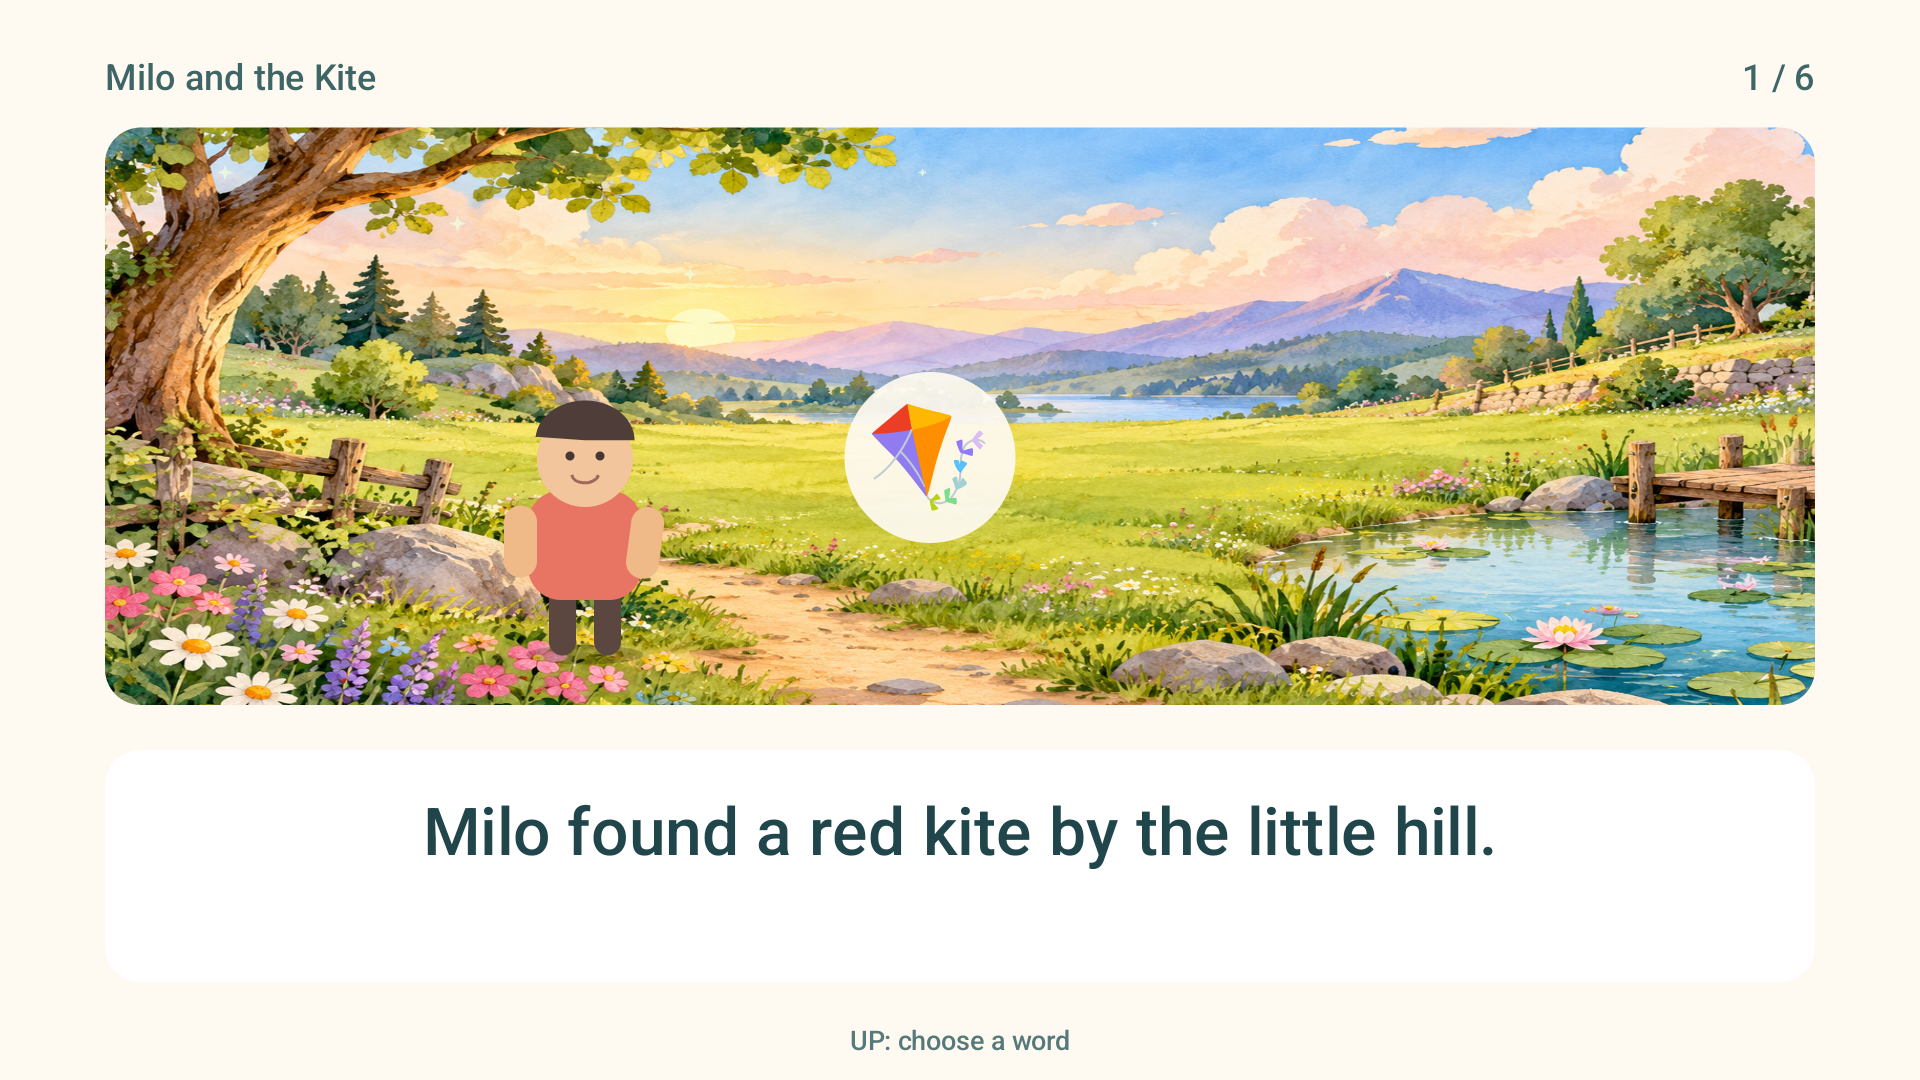
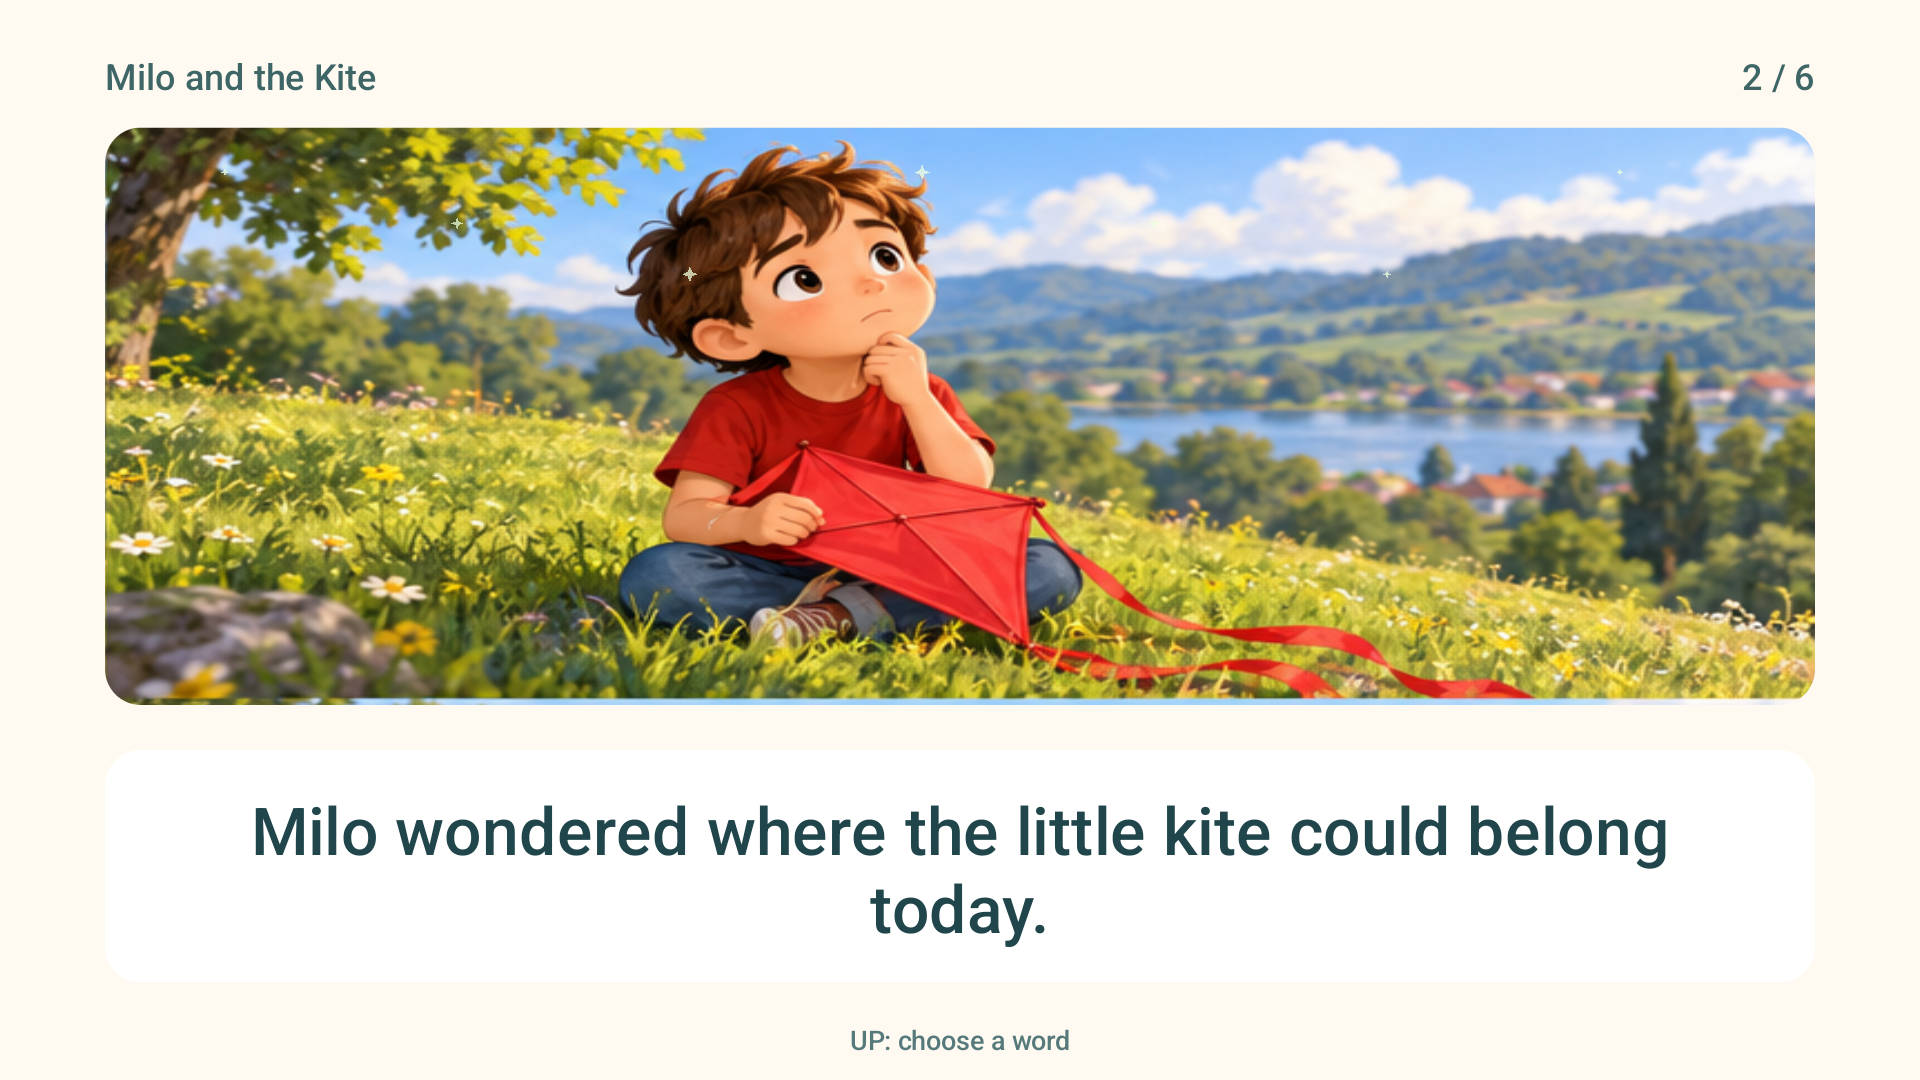
Add illustrated scenes for Milo and the Kite

diff --git a/src/com/example/storytv/ShortStoryActivity.java b/src/com/example/storytv/ShortStoryActivity.java
@@ -1,8 +1,8 @@
 package com.example.storytv;
 import android.app.Activity;import android.os.Bundle;import android.graphics.*;import android.view.*;import org.json.*;import java.io.*;
 public class ShortStoryActivity extends Activity {
- JSONArray pages;String title,object;int page=-1,storyId,finishChoice=0;Bitmap image,places;CoverArt covers;Reader view;ReadingWords reader;
- public void onCreate(Bundle b){super.onCreate(b);getWindow().getDecorView().setSystemUiVisibility(5894);try{InputStream in=getAssets().open("stories.json");ByteArrayOutputStream data=new ByteArrayOutputStream();byte[] buffer=new byte[4096];int n;while((n=in.read(buffer))!=-1)data.write(buffer,0,n);in.close();storyId=getIntent().getIntExtra("story",0);JSONObject story=new JSONArray(data.toString("UTF-8")).getJSONObject(storyId);pages=story.getJSONArray("pages");title=story.getString("title");String[] icons={"🪁","🔔","🐚","☂","🪶","🍂","🏮","🔘","⛵","🎀","🧤","🪨","🔑","🌰","🌸","🔮","🧣","☕","🪨","🔖","💧","🎩","🖌","🥁","🌼","⚽","🎁","🍎","🌼","🚩","🌱","☁","⭐","🎈","🚿","🪙","🖍","🧸","🍊","🚂","🐚","📚","🚗","🌸","🔦","🍃","🦆","🧦","🪣","🥄","✈","⭐","🍱","☂","🦋","🥭","🪁","🌼","⛵","🐶","🌙","🌱","🎈","🐢","🍐","🚗","🐟","📖","🍂","🐈","🌻","🚲","🍌","🐚","🌸","🪶","🍎","🪺"};object=icons[storyId];in=getAssets().open("meadow.png");image=BitmapFactory.decodeStream(in);in.close();in=getAssets().open("places.png");places=BitmapFactory.decodeStream(in);in.close();}catch(Exception e){finish();return;}try{covers=new CoverArt(this);}catch(Exception e){finish();return;}view=new Reader();reader=new ReadingWords(this,view,storyId>=53?new java.util.Locale("ta","IN"):java.util.Locale.US);setContentView(view);}
+ JSONArray pages;String title,object;int page=-1,storyId,finishChoice=0;Bitmap image,places,sceneSheet;CoverArt covers;Reader view;ReadingWords reader;
+ public void onCreate(Bundle b){super.onCreate(b);getWindow().getDecorView().setSystemUiVisibility(5894);try{InputStream in=getAssets().open("stories.json");ByteArrayOutputStream data=new ByteArrayOutputStream();byte[] buffer=new byte[4096];int n;while((n=in.read(buffer))!=-1)data.write(buffer,0,n);in.close();storyId=getIntent().getIntExtra("story",0);JSONObject story=new JSONArray(data.toString("UTF-8")).getJSONObject(storyId);pages=story.getJSONArray("pages");title=story.getString("title");String[] icons={"🪁","🔔","🐚","☂","🪶","🍂","🏮","🔘","⛵","🎀","🧤","🪨","🔑","🌰","🌸","🔮","🧣","☕","🪨","🔖","💧","🎩","🖌","🥁","🌼","⚽","🎁","🍎","🌼","🚩","🌱","☁","⭐","🎈","🚿","🪙","🖍","🧸","🍊","🚂","🐚","📚","🚗","🌸","🔦","🍃","🦆","🧦","🪣","🥄","✈","⭐","🍱","☂","🦋","🥭","🪁","🌼","⛵","🐶","🌙","🌱","🎈","🐢","🍐","🚗","🐟","📖","🍂","🐈","🌻","🚲","🍌","🐚","🌸","🪶","🍎","🪺"};object=icons[storyId];in=getAssets().open("meadow.png");image=BitmapFactory.decodeStream(in);in.close();in=getAssets().open("places.png");places=BitmapFactory.decodeStream(in);in.close();if(storyId==0){in=getAssets().open("milo-scenes.png");sceneSheet=BitmapFactory.decodeStream(in);in.close();}}catch(Exception e){finish();return;}try{covers=new CoverArt(this);}catch(Exception e){finish();return;}view=new Reader();reader=new ReadingWords(this,view,storyId>=53?new java.util.Locale("ta","IN"):java.util.Locale.US);setContentView(view);}
  protected void onPause(){super.onPause();if(reader!=null)reader.stop();} protected void onDestroy(){if(reader!=null)reader.close();super.onDestroy();}
  public boolean onKeyDown(int k,KeyEvent e){if(page==pages.length()){if(k==KeyEvent.KEYCODE_BACK||k==KeyEvent.KEYCODE_DPAD_CENTER||k==KeyEvent.KEYCODE_ENTER){finish();}return true;}if(page>=0&&reader.key(k))return true;if(k==KeyEvent.KEYCODE_DPAD_RIGHT||k==KeyEvent.KEYCODE_MEDIA_NEXT||(page==-1&&(k==KeyEvent.KEYCODE_DPAD_CENTER||k==KeyEvent.KEYCODE_ENTER))){if(page==pages.length()-1){StoryProgress.complete(this,"story:"+title);reader.reset();page=pages.length();finishChoice=0;view.invalidate();return true;}page++;reader.reset();}else if(k==KeyEvent.KEYCODE_DPAD_LEFT||k==KeyEvent.KEYCODE_BACK){if(page<=0){if(page==0){page=-1;view.invalidate();}else finish();return true;}page--;reader.reset();}else return super.onKeyDown(k,e);view.invalidate();return true;}
  class Reader extends View {
@@ -10,12 +10,12 @@ public class ShortStoryActivity extends Activity {
   void dot(Canvas c,float x,float y,float r,int col){p.setColor(col);c.drawCircle(x,y,r,p);}
   void person(Canvas c,float x,float y,int shirt,float bounce){y+=bounce; p.setColor(0x33000000);c.drawOval(x-39,y+95,x+39,y+108,p);p.setColor(0xff5c4740);c.drawRoundRect(x-24,y+52,x-6,y+102,9,9,p);c.drawRoundRect(x+6,y+52,x+24,y+102,9,9,p);p.setColor(shirt);c.drawRoundRect(x-38,y-8,x+38,y+65,22,22,p);p.setColor(0xffefba88);c.drawRoundRect(x-54,y+2,x-32,y+50,11,11,p);c.save();c.rotate(bounce*1.5f,x+35,y+4);c.drawRoundRect(x+32,y+2,x+54,y+50,11,11,p);c.restore();dot(c,x,y-29,32,0xfff2c59d);p.setColor(0xff4e3d39);c.drawArc(x-33,y-68,x+33,y-15,185,175,true,p);dot(c,x-10,y-31,3,0xff463832);dot(c,x+10,y-31,3,0xff463832);p.setStyle(Paint.Style.STROKE);p.setStrokeWidth(2);p.setColor(0xff9e685e);c.drawArc(x-9,y-26,x+9,y-13,10,160,false,p);p.setStyle(Paint.Style.FILL);}
   protected void onDraw(Canvas c){c.save();c.scale(getWidth()/1280f,getHeight()/720f);c.drawColor(0xfffffaf1);if(page==pages.length()){FinishScreen.draw(c,p,storyId>=53);c.restore();if(StoryMotion.enabled())postInvalidateDelayed(100);return;}if(page==-1){p.setTypeface(Typeface.create("sans-serif-medium",0));Path cp=new Path();cp.addRoundRect(330,65,950,485,24,24,Path.Direction.CW);c.save();c.clipPath(cp);covers.draw(c,p,storyId,new RectF(330,65,950,485));c.restore();p.setTextAlign(Paint.Align.CENTER);p.setColor(0xff20464c);p.setTextSize(46);c.drawText(title,640,565,p);p.setTextSize(23);p.setColor(0xff638082);c.drawText("Press OK to start reading",640,620,p);c.restore();return;}p.setTypeface(Typeface.create("sans-serif-medium",0));p.setColor(0xff3f6667);p.setTextSize(24);p.setTextAlign(Paint.Align.LEFT);c.drawText(title,70,60,p);p.setTextAlign(Paint.Align.RIGHT);c.drawText((page+1)+" / "+pages.length(),1210,60,p);p.setTextAlign(Paint.Align.LEFT);
-   Path clip=new Path();clip.addRoundRect(70,85,1210,470,24,24,Path.Direction.CW);c.save();c.clipPath(clip);float shift=(page%3)*14;int[] locations={-1,3,0,3,2,2,-1,3,-1,1,4,-1,3,2,-1,5,3,3,-1,1,3,2,1,1,3,5,1,3,-1,0,3,-1,3};int[] addedLocations={3,3,3,1,3,3,1,0,3,5,-1,2,3,1,1,0,1,3,1,1};int loc=storyId<locations.length?locations[storyId]:(storyId<53?addedLocations[storyId-33]:new int[]{3,3,2,-1,3,-1,3,-1,3,3,-1,3,1,-1,1,2,1,3,3,2,0,3,2,3,2}[storyId-53]);if(loc<0){c.drawBitmap(image,null,new RectF(55-shift,65,1225-shift,500),p);}else{int half=places.getWidth()/2, third=places.getHeight()/3;Rect source=new Rect((loc%2)*half,(loc/2)*third,(loc%2+1)*half,(loc/2+1)*third);c.drawBitmap(places,source,new RectF(55-shift,65,1225-shift,500),p);}
+   Path clip=new Path();clip.addRoundRect(70,85,1210,470,24,24,Path.Direction.CW);c.save();c.clipPath(clip);if(sceneSheet!=null){int w=sceneSheet.getWidth()/2,h=sceneSheet.getHeight()/3;Rect src=new Rect((page%2)*w,(page/2)*h,(page%2+1)*w,(page/2+1)*h);c.drawBitmap(sceneSheet,src,new RectF(70,85,1210,470),p);StoryMotion.scene(c,motionPaint,StoryMotion.phase());}else{float shift=(page%3)*14;int[] locations={-1,3,0,3,2,2,-1,3,-1,1,4,-1,3,2,-1,5,3,3,-1,1,3,2,1,1,3,5,1,3,-1,0,3,-1,3};int[] addedLocations={3,3,3,1,3,3,1,0,3,5,-1,2,3,1,1,0,1,3,1,1};int loc=storyId<locations.length?locations[storyId]:(storyId<53?addedLocations[storyId-33]:new int[]{3,3,2,-1,3,-1,3,-1,3,3,-1,3,1,-1,1,2,1,3,3,2,0,3,2,3,2}[storyId-53]);if(loc<0){c.drawBitmap(image,null,new RectF(55-shift,65,1225-shift,500),p);}else{int half=places.getWidth()/2, third=places.getHeight()/3;Rect source=new Rect((loc%2)*half,(loc/2)*third,(loc%2+1)*half,(loc/2+1)*third);c.drawBitmap(places,source,new RectF(55-shift,65,1225-shift,500),p);}
    float t=StoryMotion.phase();StoryMotion.scene(c,motionPaint,t);float bob=(float)Math.sin(t*2)*5;float hero=page==0?390:page==1?470:page==2?400:page==3?510:page==4?610:495;
    person(c,hero,330,0xffe87463,bob);if(page>=2)person(c,hero+140,337,0xff6aa7b4,-bob);
    float itemX=page==0?620:page==1?650:page==2?690:page==3?770:page==4?790:740;float itemY=page==0?300:page==1?245:page==2?292:page==3?258:page==4?240:210;
    dot(c,itemX,itemY+bob,57,0xeefefaf0);p.setTextAlign(Paint.Align.CENTER);p.setTextSize(68);p.setTypeface(Typeface.DEFAULT);p.setColor(Color.BLACK);c.drawText(object,itemX,itemY+23+bob,p);
    if(page==1){p.setTypeface(Typeface.create("sans-serif",1));p.setTextSize(55);p.setColor(0xff486b6c);c.drawText("?",hero+65,240+bob,p);}if(page>=4){for(int i=0;i<5;i++){float x=itemX-72+i*35;dot(c,x,itemY-65-(i%2)*20,4+(float)Math.abs(Math.sin(t+i))*3,0xffffd878);}}
-   c.restore();p.setTypeface(Typeface.create("sans-serif-medium",0));p.setColor(0xffffffff);c.drawRoundRect(70,500,1210,655,24,24,p);try{reader.draw(c,p,pages.getString(page),640,570,1040,44,0xff20464c);}catch(Exception ignored){}c.restore();if(StoryMotion.enabled())postInvalidateDelayed(100);}
+}   c.restore();p.setTypeface(Typeface.create("sans-serif-medium",0));p.setColor(0xffffffff);c.drawRoundRect(70,500,1210,655,24,24,p);try{reader.draw(c,p,pages.getString(page),640,570,1040,44,0xff20464c);}catch(Exception ignored){}c.restore();if(StoryMotion.enabled())postInvalidateDelayed(100);}
  }
 }

diff --git a/README.md b/README.md
@@ -9,7 +9,7 @@ A colourful Android TV reading app for children, with English and Tamil stories 
 ## Features
 
 - 53 English and 25 Tamil short stories, plus two illustrated English picture books.
-- Six-page short stories, illustrated covers, animated scene effects and difficulty labels.
+- Six-page short stories, illustrated covers, animated scene effects and difficulty labels. The story “Milo and the Kite” has six individually illustrated scenes; the other short stories currently use shared illustrated backgrounds.
 - D-pad navigation, completion indicators, reading streaks and separate English and Tamil star counts.
 - Select a word to hear it spelled; press OK again while spelling to hear its pronunciation. Speech requires a compatible Android text-to-speech voice; offline availability depends on the installed voice.
 - Celebrate each completed story with an animated award. Reading progress is stored locally on the device.
